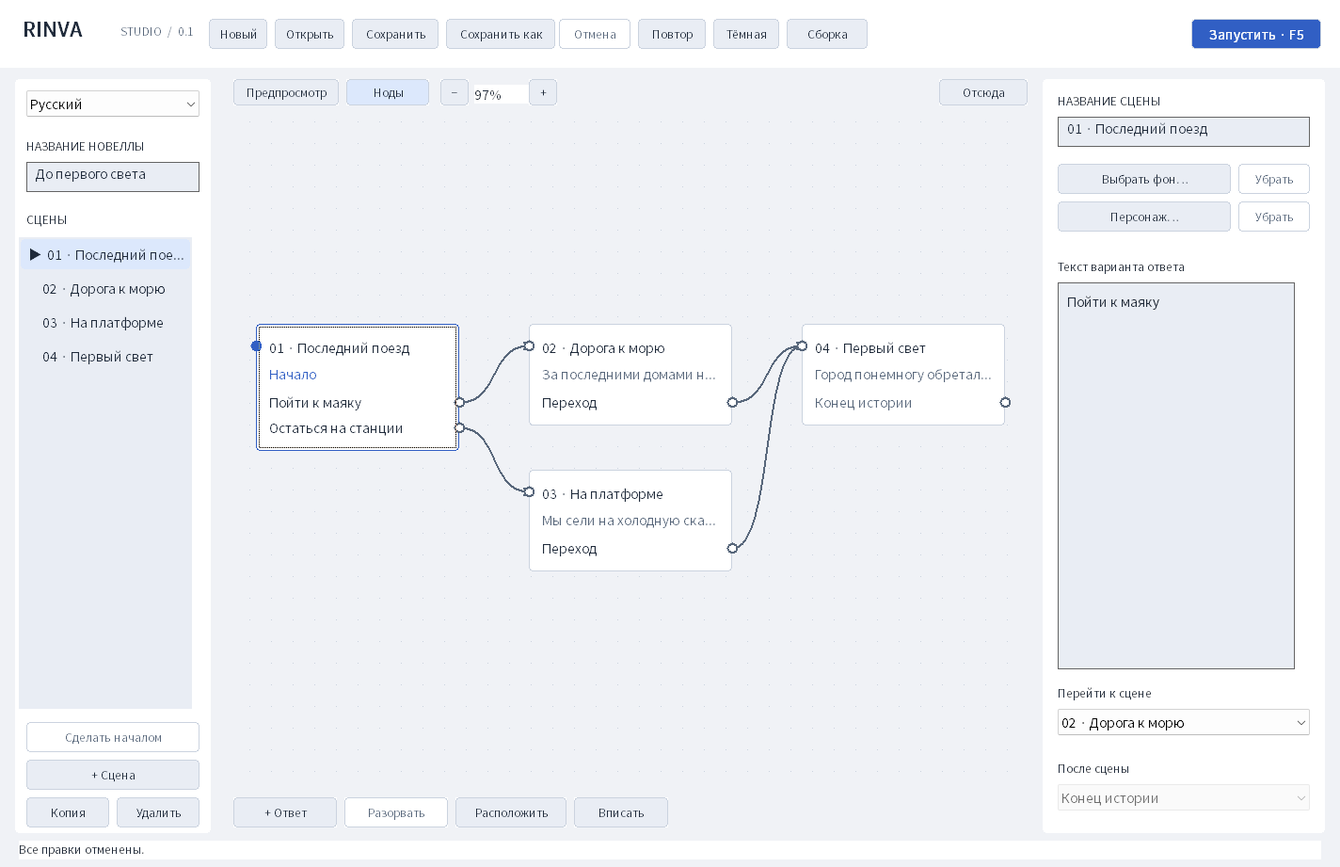
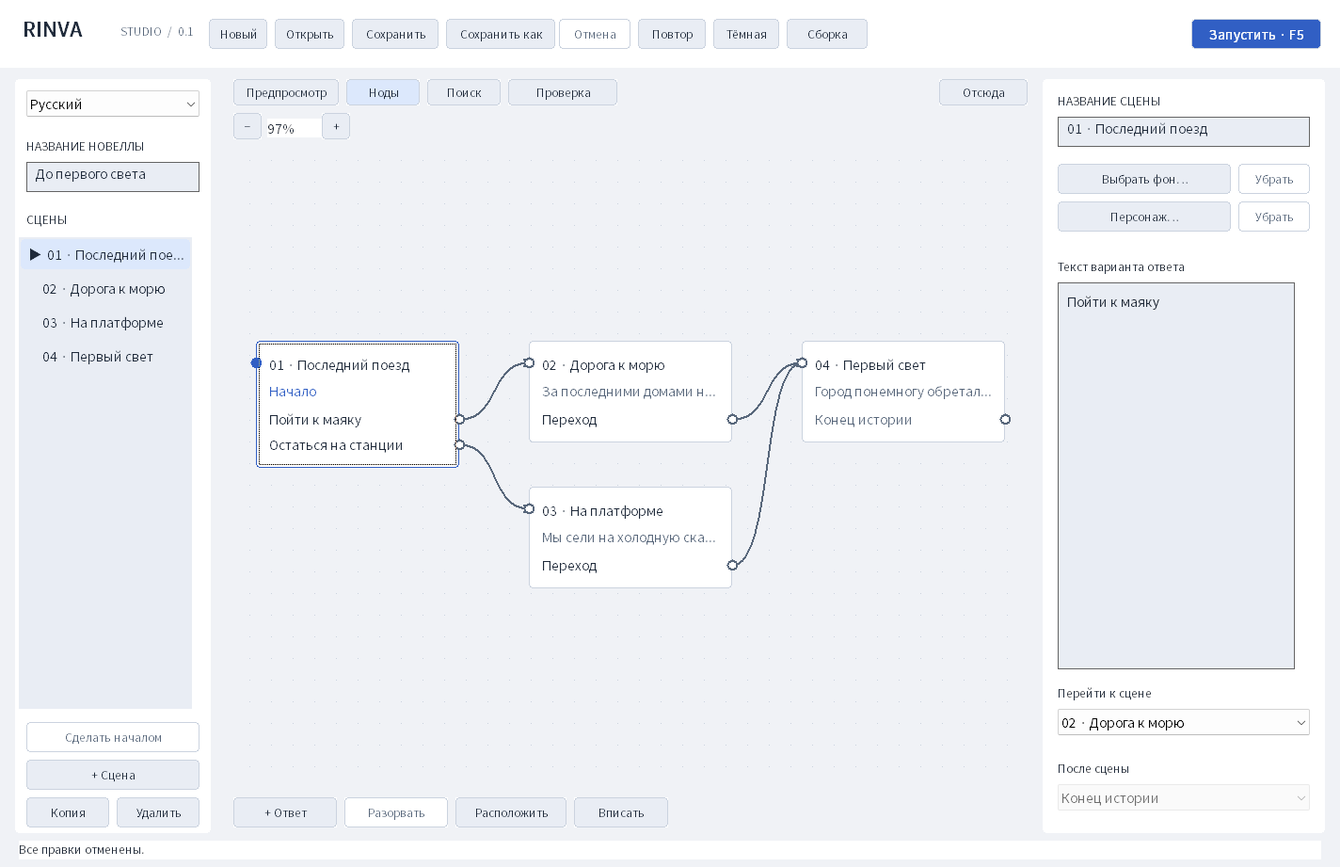
docs: document story search and diagnostics with verified native screenshots

diff --git a/README.md b/README.md
@@ -14,6 +14,8 @@
 
 [English](docs/screenshots/nodes-en.png) · [한국어](docs/screenshots/nodes-ko.png) · [日本語](docs/screenshots/nodes-ja.png) · [简体中文](docs/screenshots/nodes-zh.png) · [Все снимки и версия исходников](docs/screenshots/README.md)
 
+[Поиск по сценарию](docs/screenshots/search-ru.png) · [Ошибки и предупреждения](docs/screenshots/problems-ru.png)
+
 ## Создать первую новеллу
 
 1. Запустите `rinva.exe`. Откроется небольшая демонстрационная история с двумя ветками.
@@ -32,6 +34,8 @@
 - Нативные текстовые поля, Unicode, буфер обмена и клавиатурная навигация.
 - Скругления 4 логических пикселя, полосы прокрутки с округлым бегунком, колесом, перетаскиванием и клавишами Home/End/Page Up/Page Down.
 - Нодовый редактор сцен: связи, перетаскивание, масштаб, панорамирование, автокомпоновка и undo/redo.
+- Поиск по названиям, репликам, именам говорящих и ответам с переходом к точному совпадению.
+- Панель проверки проекта: ошибки, недоступные сцены и отсутствующие изображения; переход прямо к проблемному полю.
 - Сцены, реплики, произвольное количество ответов, автоматические переходы и выбор стартовой сцены.
 - Фоны и один персонаж на сцену; предпросмотр 16:9.
 - Общий проигрыватель в редакторе и экспортированной игре; возврат к предыдущей реплике/выбору.
@@ -85,6 +89,12 @@ CI собирает Windows-приложение и сохраняет его в
 
 ## Управление
 
+**Ctrl+F** открывает поиск. Введите фрагмент текста и при необходимости выберите область: сцены, реплики, имена говорящих или ответы. Поиск учитывает Unicode и не различает регистр; регулярные выражения не используются. Один щелчок показывает найденное поле в инспекторе, Enter или двойной щелчок возвращает к редактированию и выделяет совпадение. F3/Shift+F3 перебирают результаты, Esc закрывает панель. Поиск не изменяет сценарий и историю отмены.
+
+**F8** открывает проверку всего проекта. Ошибки блокируют запуск и сборку, предупреждения о недоступных сценах — нет. Выберите проблему и нажмите **Перейти**: редактор откроет нужную реплику, ответ, переход или кнопку выбора изображения. Если выбран нодовый режим, холст также центрируется на сцене. После исправления список обновляется; **Обновить** повторно проверяет файлы, которые могли измениться вне редактора.
+
+Обе панели поддерживают фильтрацию и показывают первые 200 подходящих результатов; при превышении лимита предлагают уточнить запрос. Проверка изображений здесь проверяет путь, наличие и размер файла; декодирование выполняется при его показе. Ввод через IME сохраняет обработку Enter/Esc системой до завершения композиции.
+
 | Действие | Клавиши |
 | --- | --- |
 | Новый / открыть / сохранить | Ctrl+N / Ctrl+O / Ctrl+S |
@@ -93,6 +103,10 @@ CI собирает Windows-приложение и сохраняет его в
 | Редактирование текста | Обычные нативные клавиши, включая Ctrl+Z внутри поля |
 | Запустить с начала | F5 |
 | Предпросмотр / ноды | Ctrl+G вне текстового поля |
+| Поиск по всему сценарию | Ctrl+F |
+| Следующий / предыдущий результат в открытой панели | F3 / Shift+F3 |
+| Проверить проект | F8 |
+| Открыть результат / закрыть панель | Enter / Esc |
 | Перейти по элементам интерфейса | Tab / Shift+Tab |
 | Выбрать ответ | Стрелки в списке, Enter или двойной щелчок |
 | Сохранить / загрузить прогресс | F6 / F9 |
@@ -112,7 +126,7 @@ cargo build --locked --release -p rinva-desktop
 target/release/rinva.exe --smoke-test smoke-output
 ```
 
-Тесты ядра проверяют обе ветки демонстрации, возврат к выбору, несовместимые/повреждённые сохранения, undo/redo, Unicode, защиту путей, резервную копию, переносимость экспорта и восстановление черновиков при изменённом исходнике. Дополнительно проверяются сохранение позиций узлов, совместимость игрового прогресса после перестановки узлов, связи и полнота языковых каталогов.
+Тесты ядра проверяют обе ветки демонстрации, возврат к выбору, несовместимые/повреждённые сохранения, undo/redo, Unicode, защиту путей, резервную копию, переносимость экспорта и восстановление черновиков при изменённом исходнике. Дополнительно проверяются сохранение позиций узлов, совместимость игрового прогресса после перестановки узлов, связи и полнота языковых каталогов. Тесты поиска проверяют границы Unicode/UTF-16, области и лимиты; проверка графа испытывается на цепочке из 10 000 сцен без рекурсии.
 
 Нативный smoke-тест создаёт настоящее Win32-окно, выполняет команды и ввод Unicode, проверяет автосохранение и восстановление, пять языков и наличие нужных глифов, нодовые связи и отмену жестов, вертикальную прокрутку мышью и клавиатурой. Он сохраняет снимки интерфейса и проверяет наличие текста и содержимого предпросмотра после переключения темы. Ручная проверка IME, экранного диктора, файловых диалогов и нескольких мониторов ещё требуется — см. [проверку интерфейса](docs/QA.md).
 

diff --git a/docs/QA.md b/docs/QA.md
@@ -21,9 +21,15 @@
 | DPI | 100/125/150/200%, перенос между мониторами | Текст читается, элементы не перекрываются; проверить небольшой экран |
 | Доступность | Narrator, клавиатура, системный высокий контраст | Все основные действия доступны; выявленные ограничения документировать |
 | Длинный текст | 4000 символов, длинное имя сцены, много сцен | Списки и текст прокручиваются, полный текст доступен под игровой сценой |
+| Поиск | Найти повторяющийся текст, эмодзи и CJK; переключить область, нажать F3/Enter/Esc | Выделяется точное совпадение; сценарий и undo не меняются |
+| Проверка | Пустая реплика, потерянный переход, отсутствующий фон, недоступная сцена | Ошибки и предупреждения различаются; переход открывает нужное поле |
+| Устаревшие результаты | Изменить или удалить найденную реплику до перехода по старому результату | Список обновляется, редактор не переходит к чужому полю |
+| IME и поиск | Подтвердить/отменить живую композицию Enter/Esc внутри поискового поля | Клавиши обрабатывает IME, панель не закрывается до завершения композиции |
 
 Системные диалоги и некоторые штатные элементы Windows имеют собственное оформление. Собственные поверхности редактора проверяются отдельно от оформления ОС.
 
 Дополнения: автоматизированный Windows smoke переключает все пять языков, проверяет наличие кириллических, латинских и CJK-глифов, отмену выбора языка, сохранение настройки, перемещение/отмену/потерю захвата узла, создание и удаление связи, соответствие перехода проигрывателю, undo/redo, автокомпоновку и прокрутку длинного текста и списка мышью/клавиатурой. Проверяется согласованность выделенного выхода после перестановки и удаления ответов и копирования сцены. Снимки `nodes-*.png`, `nodes-light.png`, `scrollbars.png` и `editor-small-ja.png` сохраняются в артефакте `native-smoke`; полнота отрисовки текста и предпросмотра после смены темы проверяется по снимкам реальных элементов окна.
 
 Перед выпуском дополнительно проверить живую композицию IME на корейской, японской и китайской раскладках, точность переводов носителями языка, высокую контрастность, сенсорную панель и перенос холста между мониторами 100/200%. Граф имеет клавиатурные и нативные альтернативы для выбора сцен и изменения связей; отдельная доступная иерархия узлов для экранного диктора пока не реализована.
+
+Нативные проверки поиска выполняют переход из строки запроса, выделение UTF-16 после эмодзи и перевода строки, перебор результатов без потери фокуса, отмену, фильтры, защиту устаревшего результата и исправление проблем через инспектор. Защита горячих клавиш проверяется синтетическими уведомлениями начала/конца композиции; это не заменяет живую проверку IME. Поиск снят на всех пяти языках, панель проблем — в обеих темах.

diff --git a/docs/screenshots/README.md b/docs/screenshots/README.md
@@ -2,7 +2,15 @@
 
 Снимки клиентской области настоящего Win32-приложения, созданные командой `rinva.exe --smoke-test smoke-output` на Windows в GitHub Actions. Используется синхронная отрисовка работающих окон через `WM_PRINT`. Изображения не являются макетами и не дорисованы.
 
-Версия исходников: [`1ecdc0e`](https://github.com/GBB-C2/rinva_engine/commit/1ecdc0ed99b3d6ee3effe578f60067959ec47f4c). [Запуск проверок и исходные артефакты](https://github.com/GBB-C2/rinva_engine/actions/runs/42090060254).
+Версия исходников: [`dae42fd`](https://github.com/GBB-C2/rinva_engine/commit/dae42fd696aa18392951a0788902e7857a7ff344). [Запуск проверок и исходные артефакты](https://github.com/GBB-C2/rinva_engine/actions/runs/42098006391).
+
+## Поиск и проверка проекта
+
+![Поиск по сценарию](search-ru.png)
+
+![Ошибки и предупреждения](problems-ru.png)
+
+На экране проверки специально открыта копия демонстрации с пустой репликой, потерянным переходом, отсутствующим фоном и недоступной сценой. Нативный тест затем исправляет ошибки через инспектор и проверяет запуск истории с оставшимся предупреждением.
 
 ## Нодовый редактор
 
@@ -14,6 +22,16 @@
 
 | Файл | Экран |
 | --- | --- |
+| [search-ru.png](search-ru.png) | Поиск на русском и просмотр найденной реплики |
+| [search-light.png](search-light.png) | Поиск в светлой теме |
+| [search-en.png](search-en.png) | Search — English |
+| [search-ko.png](search-ko.png) | 검색 — 한국어 |
+| [search-ja.png](search-ja.png) | 検索 — 日本語 |
+| [search-zh.png](search-zh.png) | 搜索 — 简体中文 |
+| [search-small-ja.png](search-small-ja.png) | Поиск при минимальном размере окна |
+| [problems-ru.png](problems-ru.png) | Ошибки, предупреждения и точные поля назначения |
+| [problems-light.png](problems-light.png) | Проверка в светлой теме |
+| [problems-ja.png](problems-ja.png) | Проверка на японском |
 | [nodes-ru.png](nodes-ru.png) | Русский, нодовый граф сцен |
 | [nodes-en.png](nodes-en.png) | English |
 | [nodes-ko.png](nodes-ko.png) | 한국어 |

diff --git a/docs/ROADMAP.md b/docs/ROADMAP.md
@@ -10,15 +10,19 @@
 
 Скругления 4 px, оформленные вертикальные полосы прокрутки, пять языков интерфейса с комплектным CJK-шрифтом и нодовый граф существующих сцен. Связи используют тот же сценарий, что инспектор и проигрыватель; положения узлов не влияют на совместимость игровых сохранений.
 
+Добавлены поиск по сценарию с точным переходом к полю и панель ошибок/предупреждений, включая недоступные сцены и потерянные файлы. Проверка длинных автоматических цепочек использует линейный обход и не зависит от глубины стека.
+
 ## Следующее обновление — уверенная повседневная работа
 
 - История версий автокопий, список последних проектов и предупреждение о параллельном редактировании одного исходного файла.
-- Поиск по сценарию, переход к диагностике, список недоступных сцен.
+- Замена найденного текста с предпросмотром изменений и единым шагом отмены.
 - Каталог персонажей, несколько спрайтов в сцене, положения и выражения.
 - Фоновая загрузка и миниатюры ресурсов, перетаскивание файлов.
 - Улучшение доступности и тестирование в высококонтрастном режиме Windows.
 
 ## 0.3 — выразительность истории
+
+Основные недостающие возможности для полноценной новеллы: звук, условия/переменные и управление несколькими персонажами. Их следует добавлять законченными сценариями «редактор → проигрыватель → переносимая сборка», сохраняя совместимость проектов и прогресса.
 
 - Музыка, звуковые эффекты и озвучка с независимой громкостью.
 - Печатание текста, авто-режим, пропуск прочитанного и журнал реплик.
